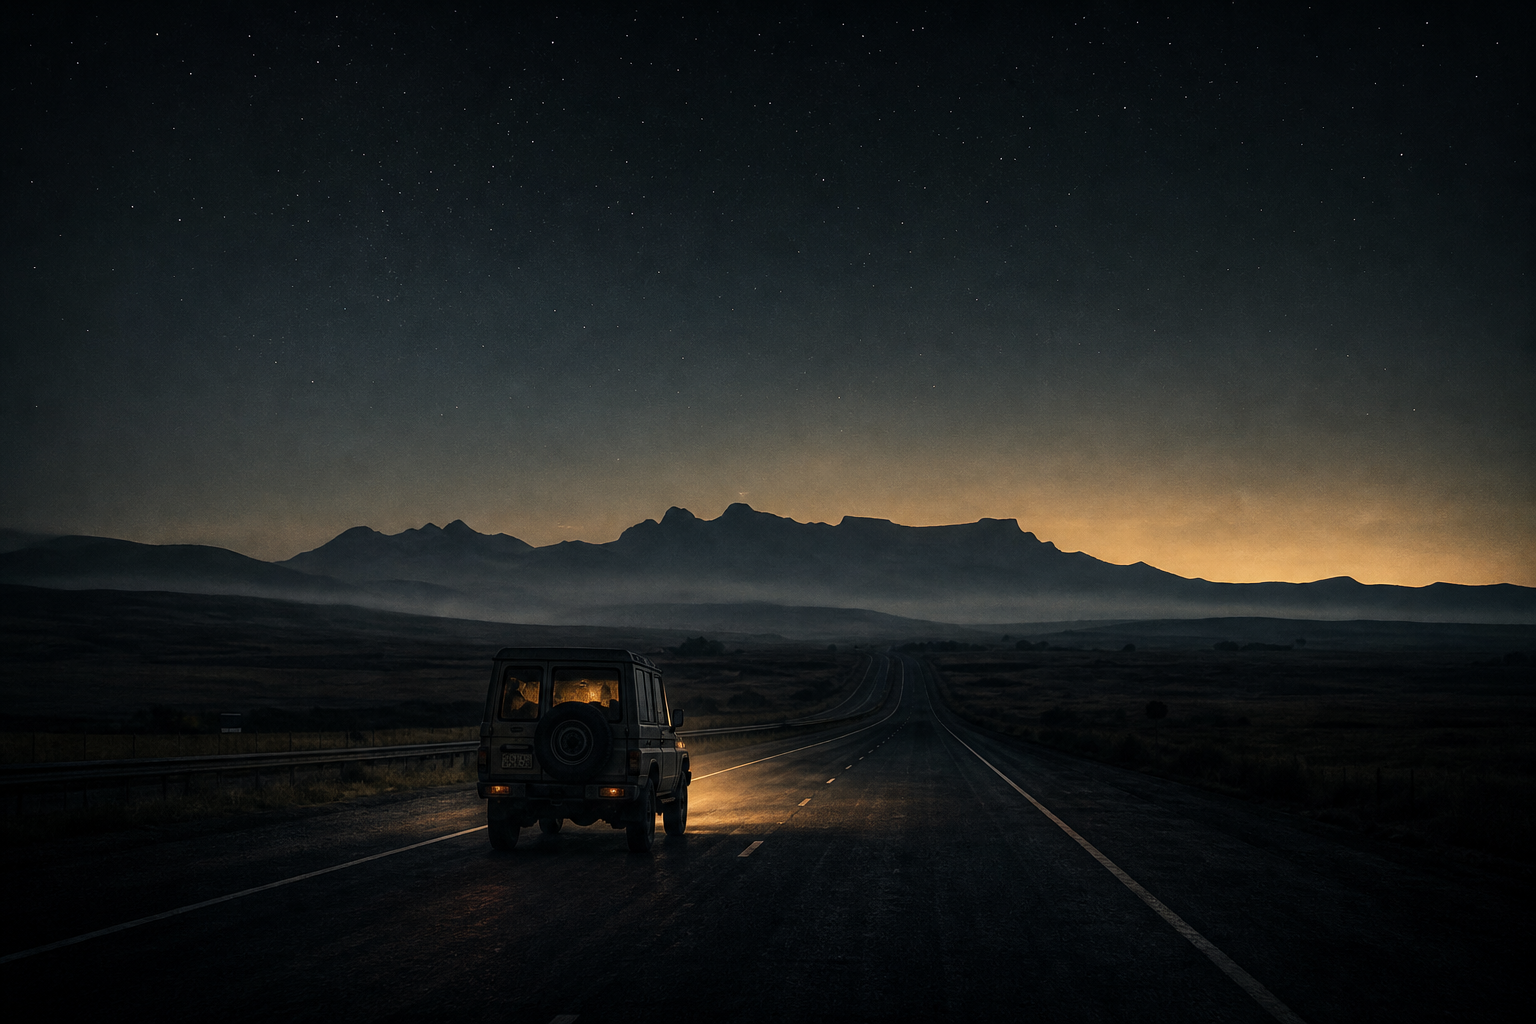
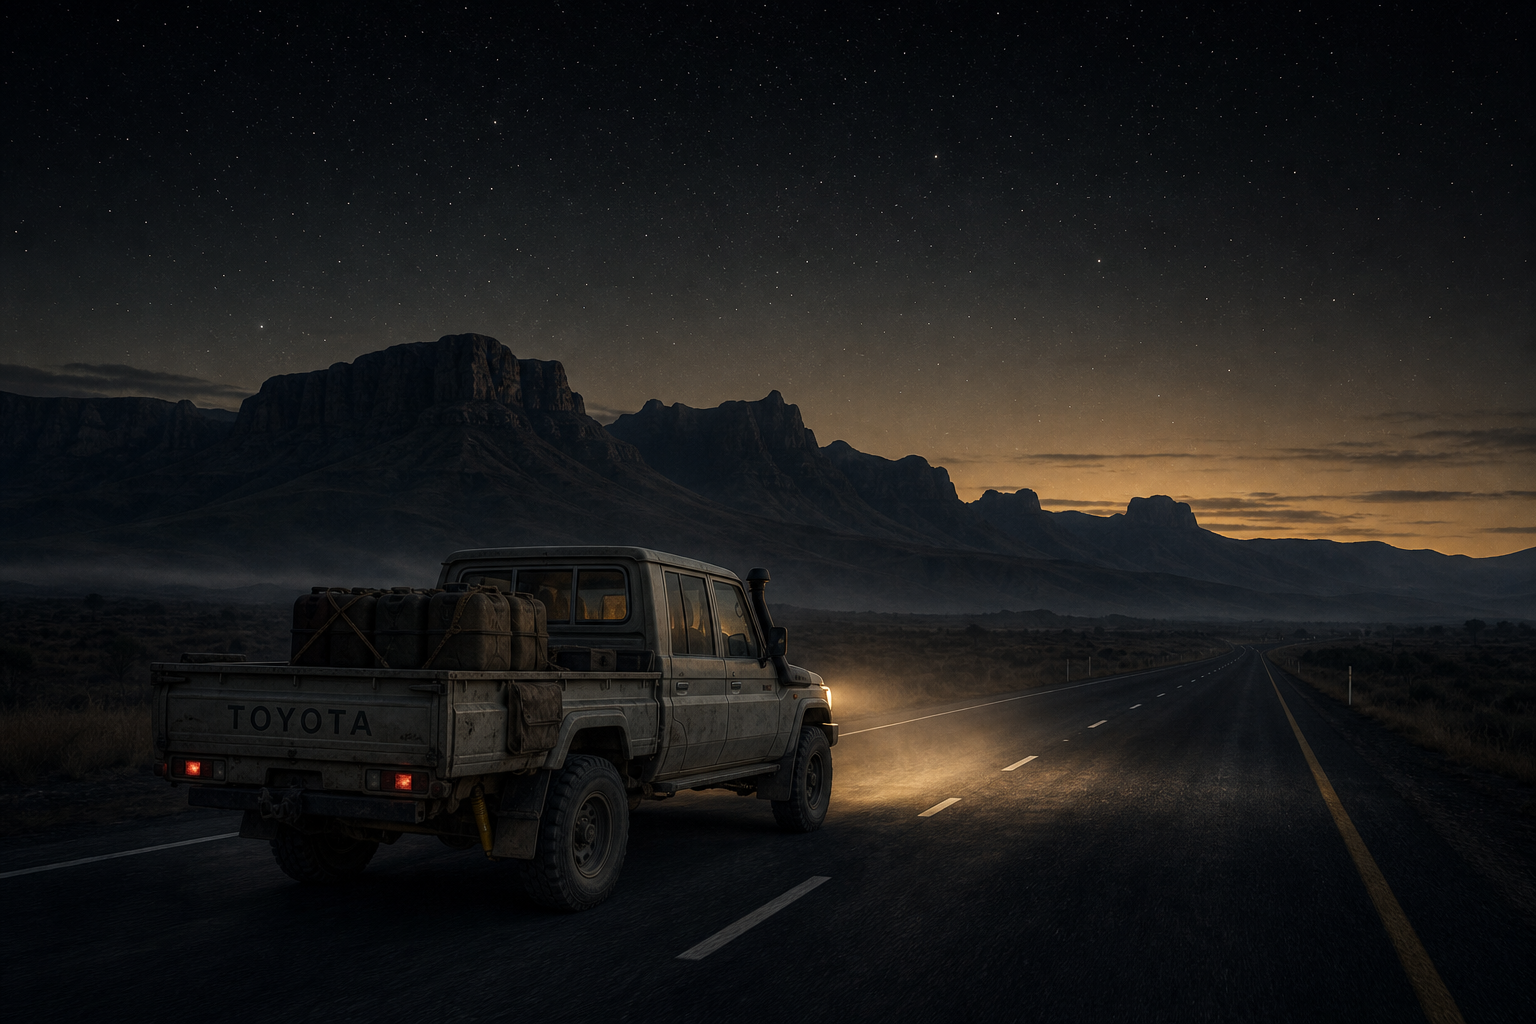
Fix The Long Dark cover — The Beast as double-cab pickup.
Regenerate the art plate as a Toyota Land Cruiser 70-series bakkie
(snorkel, tray jerry cans) per Jakobus SSOT.

diff --git a/books/history-before-time/books/jakobus-the-long-dark/design/make_cover.py b/books/history-before-time/books/jakobus-the-long-dark/design/make_cover.py
@@ -1,7 +1,8 @@
 #!/usr/bin/env python3
 """Lay the title + author typography onto the clean cover plate for *The Long Dark*.
 
-Reads design/cover-plate.png (the text-free image), adds soft legibility scrims and elegant
+Reads design/cover-plate.png (the text-free image; plate = Toyota Land Cruiser 70-series
+double-cab pickup / bakkie — snorkel, tray jerry cans, canvas water-bag), adds soft legibility scrims and elegant
 serif typography, and writes the typeset cover to design/cover.{png,jpg} +
 build/export/cover.{png,jpg}. Same HBT house method as *The Silver Thread*.
 
